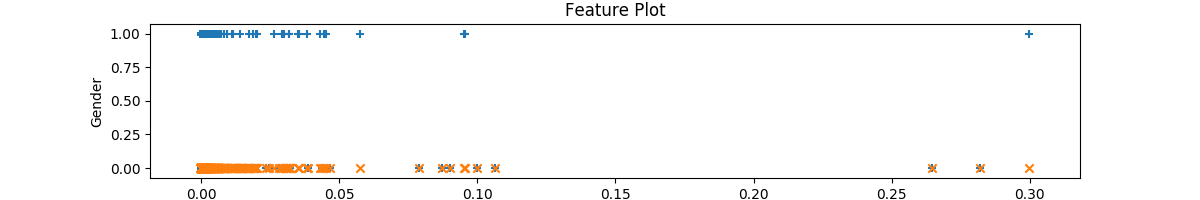
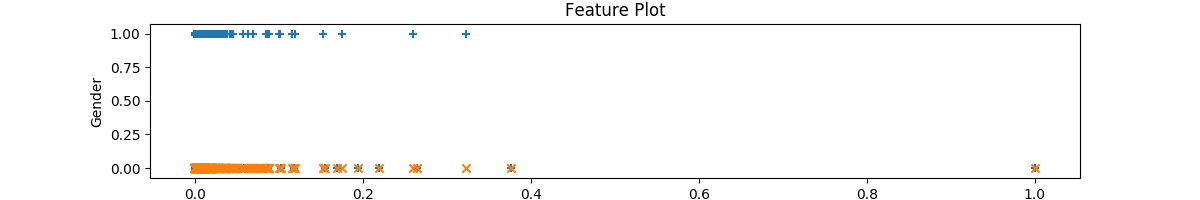
Find C and gamma values for each SVM used. Generate plots.

diff --git a/SVM.py b/SVM.py
@@ -5,6 +5,8 @@ except ImportError:
     import simplejson as json
 import numpy as np
 import matplotlib.pyplot as plt
+from sklearn.model_selection import cross_val_score
+from mpl_toolkits.mplot3d import Axes3D
 import time
 from datetime import datetime as dt
 from sklearn import svm
@@ -12,6 +14,7 @@ from sklearn import model_selection, preprocessing, linear_model, naive_bayes, m
 from sklearn.feature_extraction.text import TfidfVectorizer, CountVectorizer
 from sklearn.metrics import classification_report 
 from sklearn.model_selection import train_test_split
+from sklearn.pipeline import Pipeline, FeatureUnion
 import pandas, numpy, textblob, string
 from functools import reduce
 from sklearn.neural_network import MLPClassifier
@@ -35,12 +38,12 @@ def main():
         screen_name = [d["screen_name"] for d in data]
         gender = np.where(np.array([d["gender"] for d in data]) == 'M', 0, 1)
 
-
+'''
         # create models, plot and then get accuracy of models
         created_at_acc = created_at_model(created_at, gender)
         favourites_acc = favourites_count_model(favourites_count, gender)
         color_acc = color_model(profile_background_color, profile_sidebar_fill_color,
-                                profile_text_color, profile_sidebar_border_color,
+                                profile_text_color,
                                 profile_link_color, gender)
         listed_acc = listed_count_model(listed_count, gender)   
         description_acc = description_model(description, gender)
@@ -50,6 +53,8 @@ def main():
         plotAccuracy(created_at_acc, favourites_acc,
                      color_acc, listed_acc, description_acc,
                      tweet_acc, name_acc, 'Accuracy')
+'''
+        combinedFeatures(name, created_at, gender)
 
 def normaliseData(x):
     scale=x.max(axis=0)
@@ -75,9 +80,7 @@ def plotAccuracy(created_at_acc, favourites_acc,
     plt.title('Accuracy of features')
     graph = 'plots/' + graph_name + '.png'
 
-
-
-def plotFeatureData(X, actY, predY, graph_name):
+def plotSingleFeatureData(X, actY, predY, graph_name):
     fig, ax = plt.subplots(figsize=(12,2))
     ax.scatter(X, actY, label='Data', marker='+')
     ax.scatter(X, predY, label='Prediction', marker='x')
@@ -85,6 +88,26 @@ def plotFeatureData(X, actY, predY, graph_name):
     ax.set_xlabel('Test Feature')
     ax.set_ylabel('Gender')
     ax.set_title('Feature Plot')
+    graph = 'plots/' + graph_name + '.png'    
+    fig.savefig(graph)
+
+def plotMultiFeatureData(X, y, predY, scale, model, graph_name):
+    fig, ax = plt.subplots(figsize=(12,8))
+    # plot the data
+    positive = y > 0
+    negative = y < 0
+    ax.scatter(X[:, 0], X[:, 1], c='b', marker='o', label='')
+    ax.scatter(X[:, 0], X[:, 1], c='r', marker='x', label='')
+    # calc the decision boundary
+    x_min, x_max = X.min() - 0.1, X.max() + 0.1
+    y_min, y_max = y.min() - 0.1, y.max() + 0.1
+    xx, yy = np.meshgrid(np.arange(x_min, x_max, 0.05), np.arange(y_min, y_max, 0.05))
+    Z = model.predict(np.column_stack((np.ones(xx.ravel().shape),xx.ravel(), yy.ravel(), np.square(xx.ravel()))))
+    Z = Z.reshape(xx.shape)
+    ax.contour(xx*Xscale[1], yy*Xscale[2], Z)
+    ax.legend()
+    ax.set_xlabel('Color 1')
+    ax.set_ylabel('Color 2')
     graph = 'plots/' + graph_name + '.png'    
     fig.savefig(graph)
 
@@ -106,8 +129,9 @@ def getAccuracy(actY, predY):
 def created_at_model(created_at, y):
     # create Model
     (X, Xscale) = normaliseData(np.array(created_at).reshape(-1,1))
-    Xtrain, Xtest, ytrain, ytest = train_test_split(X, y, test_size=0.1)
+    Xtrain, Xtest, ytrain, ytest = train_test_split(X, y, test_size=0.3)
     clf = svm.SVC(kernel='linear', C = 1.0)
+    #getCAndGamma(clf, X, y, 'created_at_model')
     clf.fit(X, y)
 
     # make predicitions
@@ -115,22 +139,21 @@ def created_at_model(created_at, y):
     #plot data, get and return accuracy of model
     print('created_at Model metrics: ')
     print(classification_report(ytest, predY))
-    plotFeatureData(Xtest, ytest, predY, 'Created_At')
+    plotSingleFeatureData(Xtest, ytest, predY, 'Created_At')
+
     return getAccuracy(ytest, predY)
 
 def color_model(profile_background_color, profile_sidebar_fill_color,
-                profile_text_color, profile_sidebar_border_color,
-                profile_link_color, y):
-                
-    (X1, _) = normaliseData(np.array([int(x, 16) for x in profile_background_color]).reshape(-1,1))
+                profile_text_color, profile_sidebar_border_color, gender):
+    (X1, scale) = normaliseData(np.array([int(x, 16) for x in profile_background_color]).reshape(-1,1))
     (X2, _) = normaliseData( np.array([int(x, 16) for x in profile_sidebar_fill_color]).reshape(-1,1))
     (X3, _) = normaliseData(np.array([int(x, 16) for x in profile_text_color]).reshape(-1,1))
     (X4, _) = normaliseData(np.array([int(x, 16) for x in profile_sidebar_border_color]).reshape(-1,1))
-    (X5, _)= normaliseData(np.array([int(x, 16) for x in profile_link_color]).reshape(-1,1))
-    X=np.column_stack((X1, X2, X3, X4, X5))
+    X=np.column_stack((X1, X2))
     # create Model
-    Xtrain, Xtest, ytrain, ytest = train_test_split(X, y, test_size=0.99)
-    clf = svm.SVC(kernel='poly', C = 1.0, degree=3)
+    Xtrain, Xtest, ytrain, ytest = train_test_split(X, gender, test_size=0.1)
+    clf = svm.SVC(kernel='poly', C = 1, degree=5)
+    #getCAndGamma(clf, Xtest, ytest, 'color_model')
     clf.fit(Xtrain, ytrain)
 
     # make predicitions
@@ -138,29 +161,31 @@ def color_model(profile_background_color, profile_sidebar_fill_color,
     #plot data, get and return accuracy of model
     print('color Model metrics: ')
     print(classification_report(ytest, predY))
-    #plotFeatureData(Xtest, ytest, predY, 'Color')
-    return getAccuracy(ytest, predY)
+    #plotMultiFeatureData(Xtest, ytest, predY, scale, clf, 'Color')
+    return getAccuracy(ytest, predY)    
 
 def favourites_count_model(favourites_count, y):
     # create Model
     (X, _) = normaliseData(np.array(favourites_count).reshape(-1,1))
-    Xtrain, Xtest, ytrain, ytest = train_test_split(X, y, test_size=0.1)
-    clf = svm.SVC(kernel='poly', C = 1.0, degree=3)
+    Xtrain, Xtest, ytrain, ytest = train_test_split(X, y, test_size=0.3)
+    clf = svm.SVC(kernel='poly', C=10, gamma=10, degree=3)
+    #getCAndGamma(clf, X, y, 'favourites_count_model')
     clf.fit(Xtrain, ytrain)
-
     # make predicitions
     predY = clf.predict(Xtest.reshape(-1,1))
     #plot data, get and return accuracy of model
     print('favourites_count Model metrics: ')
     print(classification_report(ytest, predY))
-    plotFeatureData(Xtest, ytest, predY, 'Favourites_Count')
+    plotSingleFeatureData(Xtest, ytest, predY, 'Favourites_Count')
+
     return getAccuracy(ytest, predY)
 
 def listed_count_model(listed_count, y):
     # create Model
     (X, _) = normaliseData(np.array(listed_count).reshape(-1,1))
-    Xtrain, Xtest, ytrain, ytest = train_test_split(X, y, test_size=0.1)
-    clf = svm.SVC(kernel='poly', C = 1.0, degree=3)
+    Xtrain, Xtest, ytrain, ytest = train_test_split(X, y, test_size=0.3)
+    clf = svm.SVC(kernel='poly', C=10, degree=3)
+    #getCAndGamma(clf, X, y, 'listed_count_model')
     clf.fit(Xtrain, ytrain)
 
     # make predicitions
@@ -168,7 +193,7 @@ def listed_count_model(listed_count, y):
     #plot data, get and return accuracy of model
     print('listed_count Model metrics: ')
     print(classification_report(ytest, predY))
-    plotFeatureData(Xtest, ytest, predY, 'Listed_Count')
+    plotSingleFeatureData(Xtest, ytest, predY, 'Listed_Count')
     return getAccuracy(ytest, predY)
 
 ''' 
@@ -176,42 +201,95 @@ def listed_count_model(listed_count, y):
 '''
 
 def description_model(description, gender):
-    Xtest, ytest, predY = textClassification(description, gender)
+    Xtest, ytest, predY = textClassification(description, gender,  'description_model')
     print('Description Model Metrics: ')
     print(classification_report(ytest, predY))
     return getAccuracy(ytest, predY)
 
 def tweet_model(tweet, gender):
-    Xtest, ytest, predY = textClassification(tweet, gender)
+    Xtest, ytest, predY = textClassification(tweet, gender, 'tweet_model')
     print('Tweet Model Metrics: ')
     print(classification_report(ytest, predY))
     return getAccuracy(ytest, predY)
     
 def name_model(name, gender):
-    Xtest, ytest, predY = textClassification(name, gender)
+    Xtest, ytest, predY = textClassification(name, gender, 'name_model')
     print('Name Model Metrics: ')
     print(classification_report(ytest, predY))
     return getAccuracy(ytest, predY)
 
-def textClassification(X, y):
+def textClassification(X, y, name):
     # create a dataframe using texts and lables
     trainDF = pandas.DataFrame()
     trainDF['text'] = X
     trainDF['label'] = y
 
     # split the dataset into training and validation datasets 
-    Xtrain, Xtest, ytrain, ytest = model_selection.train_test_split(trainDF['text'], trainDF['label'], test_size=0.1)
+    Xtrain, Xtest, ytrain, ytest = model_selection.train_test_split(trainDF['text'], trainDF['label'], test_size=0.3)
     vectorizer = CountVectorizer(stop_words='english', max_df=0.2)
     Xtrain = vectorizer.fit_transform(Xtrain)
     Xtest = vectorizer.transform(Xtest)
 
-    model = svm.SVC(C=1.0,kernel='linear')
+    model = svm.SVC(C=10, gamma=1, kernel='poly')
+  #  getCAndGamma(model, X, y, name)
     model.fit(Xtrain, ytrain)
     predY = model.predict(Xtest)
     return Xtest, ytest, predY
 
-#def combinedFeatures():
+'''
+def getCAndGamma(model, X, y, name):
+    C_s, gamma_s = np.meshgrid(np.logspace(-2, 1, 20), np.logspace(-2, 1, 20))
+    print(name)
+    scores = list()
+    i=0; j=0
+    z = 0
+    for C, gamma in zip(C_s.ravel(),gamma_s.ravel()):
+        print(str(z))
+        z = z + 1
+        model.C = C
+        model.gamma = gamma
+        this_scores = cross_val_score(model, X, y, cv=5)
+        scores.append(np.mean(this_scores))
+    
+    scores=np.array(scores)
+    scores=scores.reshape(C_s.shape)
+    fig2, ax2 = plt.subplots(figsize=(20,20))
+    c=ax2.contourf(C_s,gamma_s,scores)
+    ax2.set_xlabel('C')
+    ax2.set_ylabel('gamma')
+    fig2.colorbar(c)
+    graph = 'plots/' + name + '.png'
+    fig2.savefig(graph)
+'''
 
+def combinedFeatures(feature1_data, feature2_data, y):
+        # perform train/test split
+        Xtrain1, Xtest1, ytrain1, ytest1 = model_selection.train_test_split(feature1_data, y, test_size=0.1)
+        Xtrain2, Xtest2, ytrain2, ytest2 = model_selection.train_test_split(feature2_data, y, test_size=0.1)
+
+      
+        # define text pre-processing pipeline
+        text_pipeline = Pipeline([
+            ('vect', vectorizer=CountVectorizer(Xtrain1))
+        ])
+        
+        # define pipeline for pre-processing of numeric features
+        numeric_pipeline = Pipeline([
+            ('scaler', MinMaxScaler(Xtrain2))
+        ])
+
+        # combine both steps into a single pipeline
+        pipeline = Pipeline([
+            ('features', FeatureUnion([
+                ('text_processing', text_pipeline),
+                ('num_processing', numeric_pipeline)
+            ])),
+            ('clf',SGDClassifier(loss='hinge', penalty='l2',
+                                               alpha=1e-3, random_state=42,
+                                               max_iter=5, tol=None) )
+        ])
+        pipeline.fit()
+        gs = GridSearchCV(pipeline, self.params, n_jobs=-1, cv=k_folds)
 
 if __name__ == '__main__':
     main()
